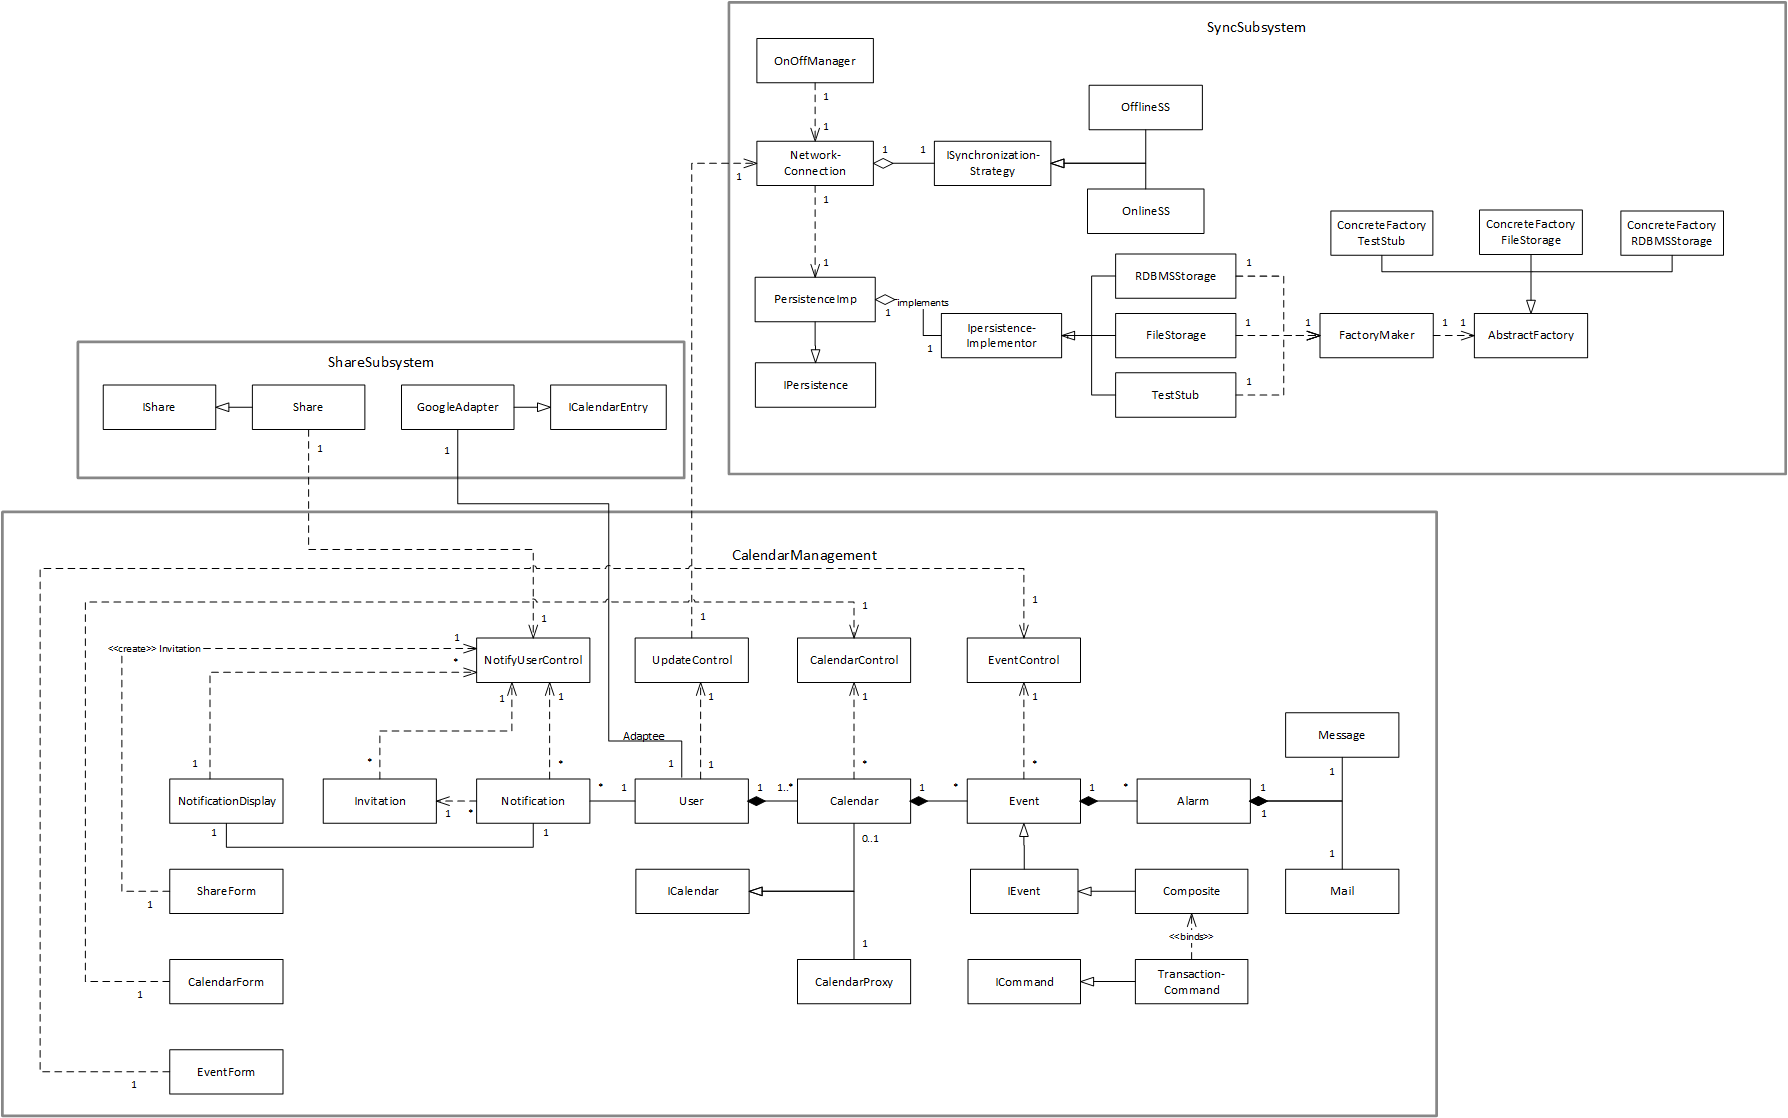
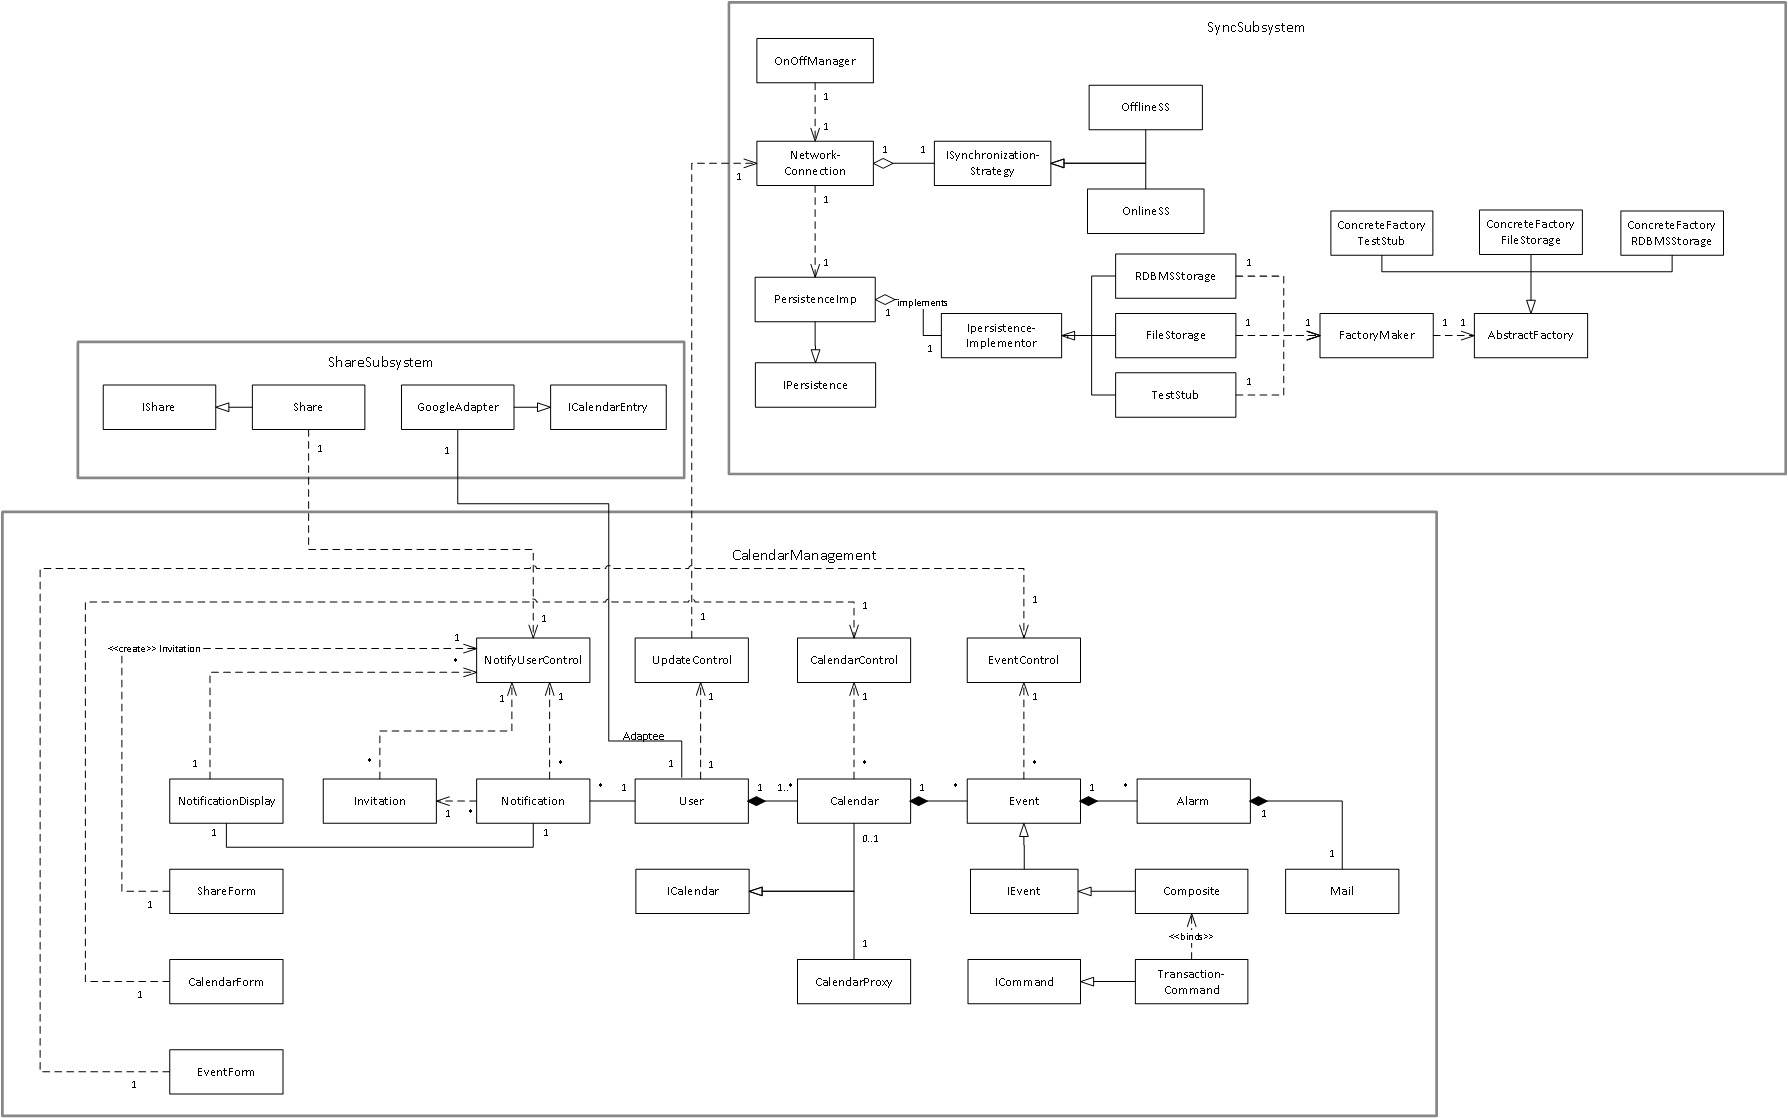
Removed Message class and added it as a field to the Alarm class instead

diff --git a/LaTeX/SDDny/ProposedSoftwareArchitecture/overview.tex b/LaTeX/SDDny/ProposedSoftwareArchitecture/overview.tex
@@ -49,7 +49,7 @@ Furthermore we have implemented the adapter pattern as an extension of our \text
 We have also implemented Composite pattern but it is a very weak implementation because we do not think that it has any relevance in our program. We already had the repeat event implemented in our own system. The Composite pattern has a connection to the events in our model. The Composite pattern is used for repeating events.
 \newline
 The UML Class diagram shows our three subsystems and the connections between them. Whenever a user likes to synchronize his calendar, a connection from \textit{UpdateControl} in the \textit{CalendarManagementSubsystem} will set to \textit{NetworkConnection} in our \textit{SyncSubsystem}.
-The connection between our \textit{SyncSubsystem} and our \textit{CalendarManagementSubsystem} is between the interface \textit{IShare} and \textit{NotifyUserControl}. Wich is the controller that sends the invite out, and then the interface will handle it at the other end. Here is space for different share systems e.g. \textit{Facebook}. 
+The connection between our \textit{SyncSubsystem} and our \textit{CalendarManagementSubsystem} is between the interface \textit{IShare} and \textit{NotifyUserControl}. Which is the controller that sends the invite out, and then the interface will handle it at the other end. Here is space for different share systems e.g. \textit{Facebook}. 
 \newline
 \newline
 The \textit{UML Class diagram} is on next page.

diff --git a/LaTeX/SDDny/RevisionHistory/revisionhistory.tex b/LaTeX/SDDny/RevisionHistory/revisionhistory.tex
@@ -18,5 +18,6 @@
   Added proxy design pattern to Calendar.
   Added an implementation of the IShare interface.
   Added Invitation class to the diagram.}
+  \vhEntry{1.12}{02.11.14}{sjri}{Removed the Message class and added a Message string attribute to the Alarm class instead. Updated the UML Class Diagram and the architectural prototype accordingly.}
 
 \end{versionhistory}

diff --git a/eCal/eCal/eCal/CalendarManagement/Model/Alarm.cs b/eCal/eCal/eCal/CalendarManagement/Model/Alarm.cs
@@ -28,8 +28,8 @@ namespace eCal.CalendarManagement.Model
         public Mail mail { get; set; }
 
         /// <summary>
-        ///     Message to send afthe the alarm activates.
+        ///     Message to send after the alarm activates.
         /// </summary>
-        public Message message { get; set; }
+        public string Message { get; set; }
     }
 }
